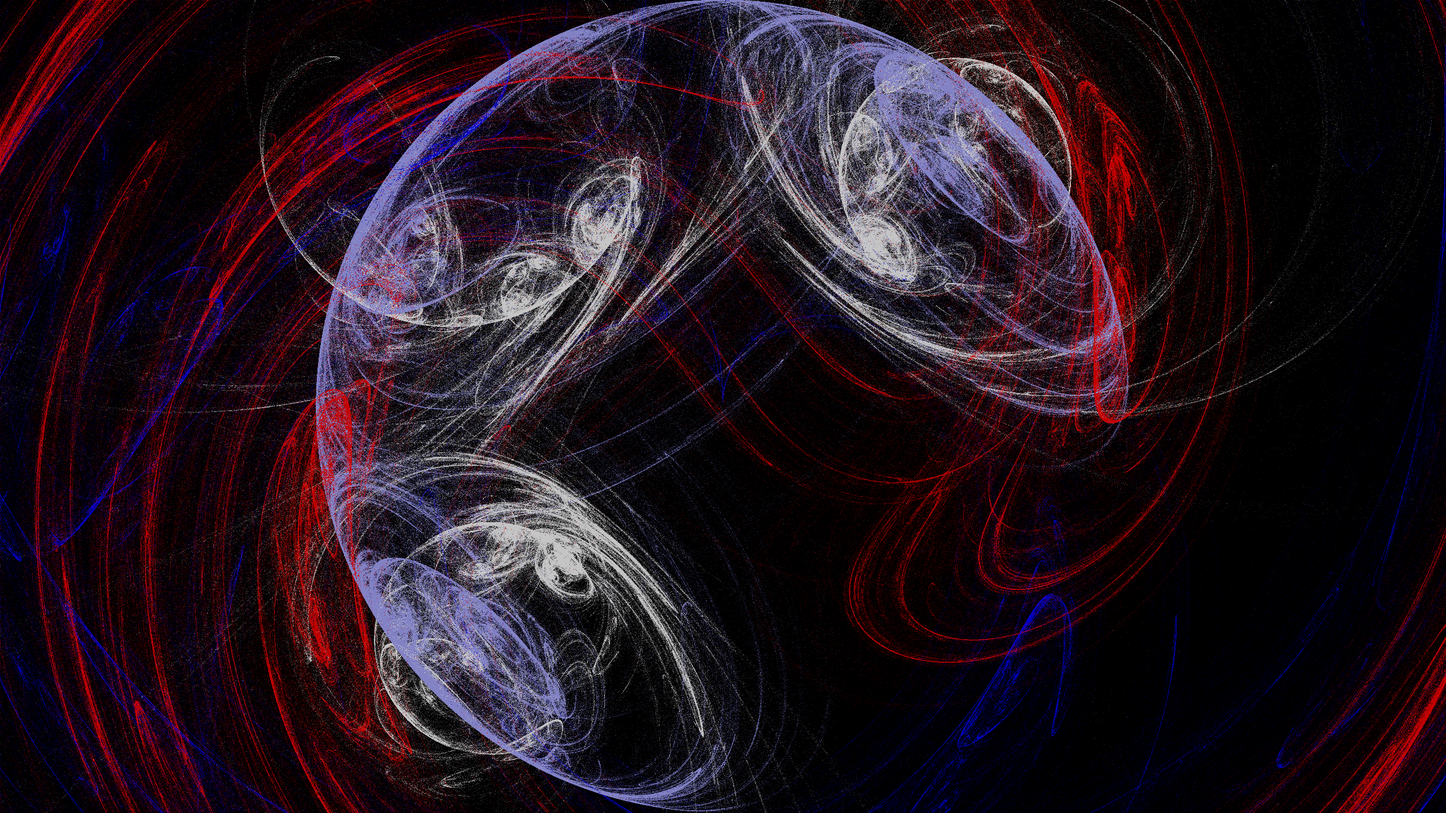
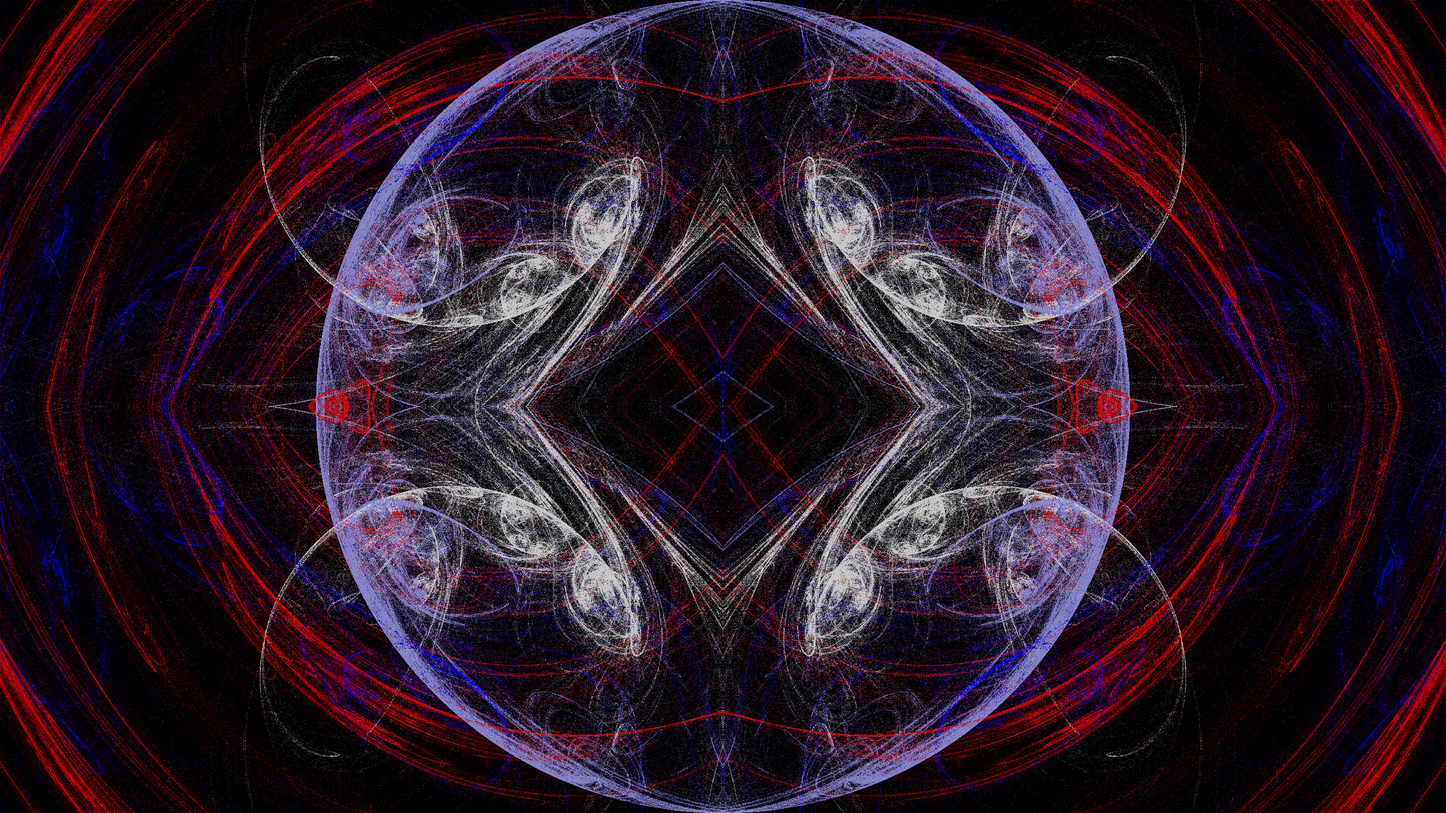
feat: add symmetry option

diff --git a/src/main/java/backend/academy/fractal/FractalImage.java b/src/main/java/backend/academy/fractal/FractalImage.java
@@ -49,10 +49,24 @@ public class FractalImage {
         }
     }
 
-
+    private void addSymmetry(boolean xSymmetry, boolean ySymmetry){
+        if(xSymmetry){
+            for(int y = 0; y<height/2;y++){
+                if (width >= 0) System.arraycopy(image[y], 0, image[height - y - 1], 0, width);
+            }
+        }
+        if(ySymmetry){
+            for(int y = 0; y<height;y++){
+                for(int x = 0; x<width/2;x++){
+                    image[y][width-x-1] = image[y][x];
+                }
+            }
+        }
+    }
 
     public void saveImage(String imageName){
         image = gammaProcessor.process(image);
+        addSymmetry(true, true);
 
         BufferedImage bufferedImage = new BufferedImage(width, height, BufferedImage.TYPE_INT_ARGB);
 
